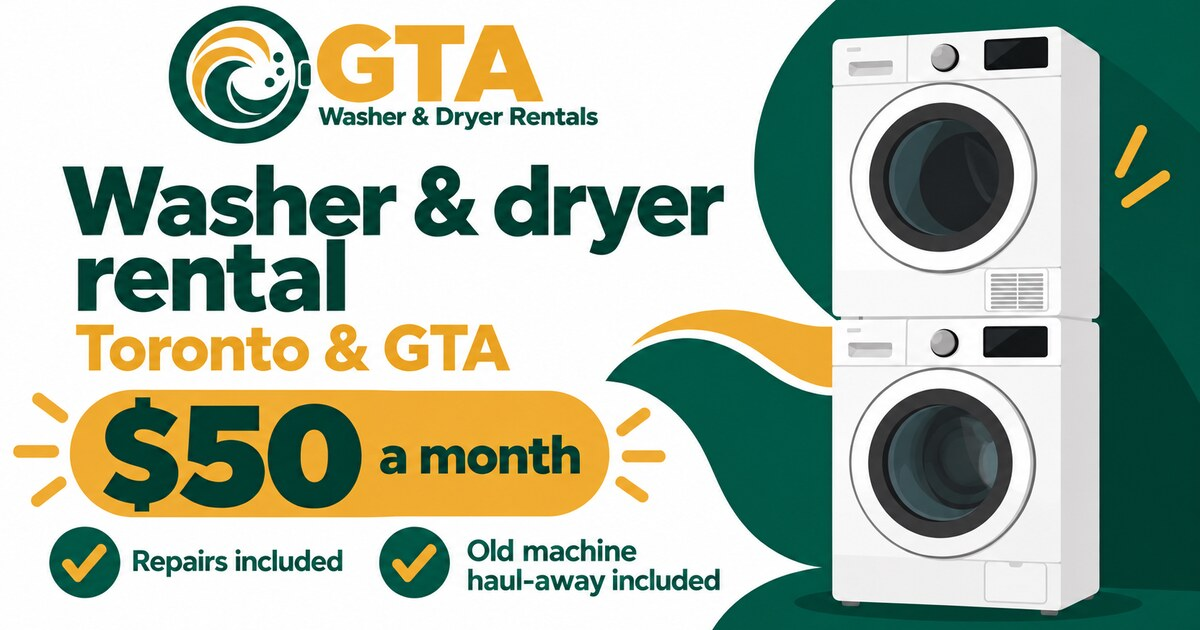
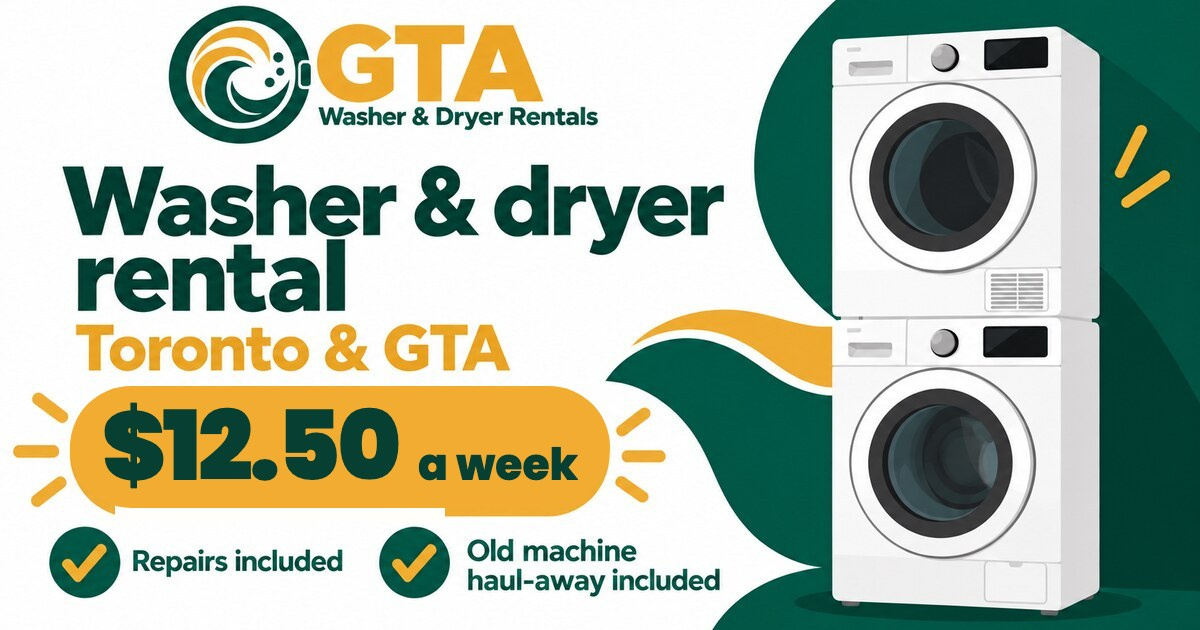
Share image: weekly price ($12.50 a week), one setting for its URL
The og-image still said $50 a month. It is now the weekly price, and every page,
the JSON-LD and the guides take its URL from siteConfig.ogImage, versioned so
Facebook fetches the new picture.

Changed region(s): [[0.0617, 0.6032, 0.5242, 0.8444]]

diff --git a/src/shared/config/site.ts b/src/shared/config/site.ts
@@ -10,6 +10,10 @@ export const siteConfig = {
   // The business's name, as written everywhere (text uses it as {company}).
   companyName: "GTA Washer & Dryer Rentals",
   siteUrl: "https://washerrent.com", // no trailing slash
+  // The picture shown when a page is shared (Facebook, WhatsApp...) and in JSON-LD. It shows
+  // the weekly price, so remake public/og-image.jpg when a price changes, and change `v`:
+  // Facebook keeps the old picture for a URL it has already seen.
+  ogImage: "https://washerrent.com/og-image.jpg?v=2026-10-15",
   // The date the page content last changed; used as <lastmod> in the generated sitemap.xml.
   lastUpdated: "2026-10-15",
   phone: {

diff --git a/src/pages/guide/loader.ts b/src/pages/guide/loader.ts
@@ -34,7 +34,7 @@ export function guideHead(i18n: I18n, guide: Guide) {
         datePublished: guide.published,
         dateModified: guide.updated,
         inLanguage: i18n.lang === "en" ? "en-CA" : i18n.lang,
-        image: `${siteConfig.siteUrl}/og-image.jpg`,
+        image: siteConfig.ogImage,
         author: providerRef(),
         publisher: { ...providerRef(), logo: { "@type": "ImageObject", url: `${siteConfig.siteUrl}/brand/logo.png` } },
       },

diff --git a/src/shared/seo/json-ld.ts b/src/shared/seo/json-ld.ts
@@ -62,7 +62,7 @@ export function localBusiness(i18n: I18n): JsonLd {
     url: absolute(i18n.href("/")),
     telephone: PHONE_E164,
     logo: `${SITE}/brand/logo.png`,
-    image: `${SITE}/og-image.jpg`,
+    image: siteConfig.ogImage,
     priceRange: "$",
     currenciesAccepted: "CAD",
     paymentAccepted: business.paymentAccepted,

diff --git a/src/app/chrome.tsx b/src/app/chrome.tsx
@@ -70,4 +70,4 @@ export function SiteChrome({
 export const fontStylesheet =
   "https://fonts.googleapis.com/css2?family=Inter:wght@400;500;600&family=Poppins:wght@600;700;800&display=swap";
 
-export const ogImage = `${siteConfig.siteUrl}/og-image.jpg`;
+export const ogImage = siteConfig.ogImage;
